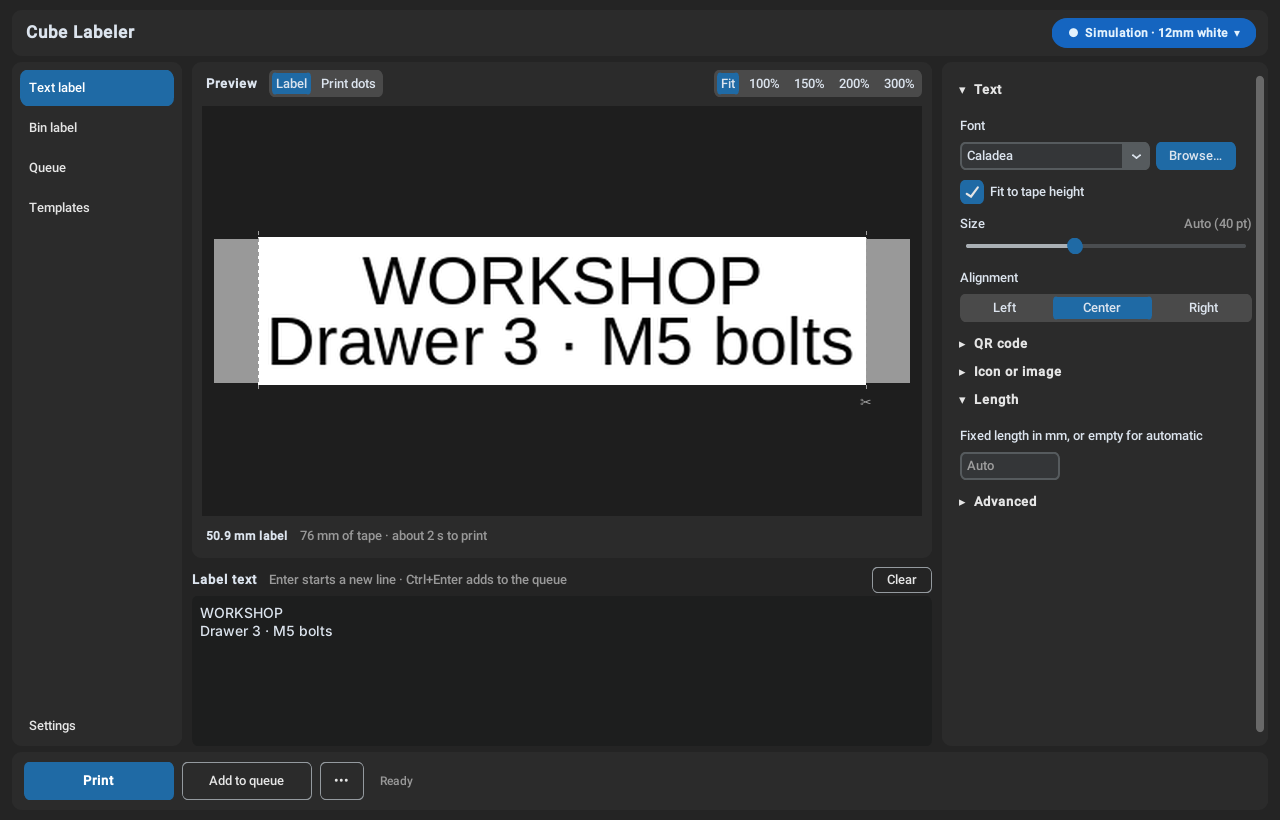
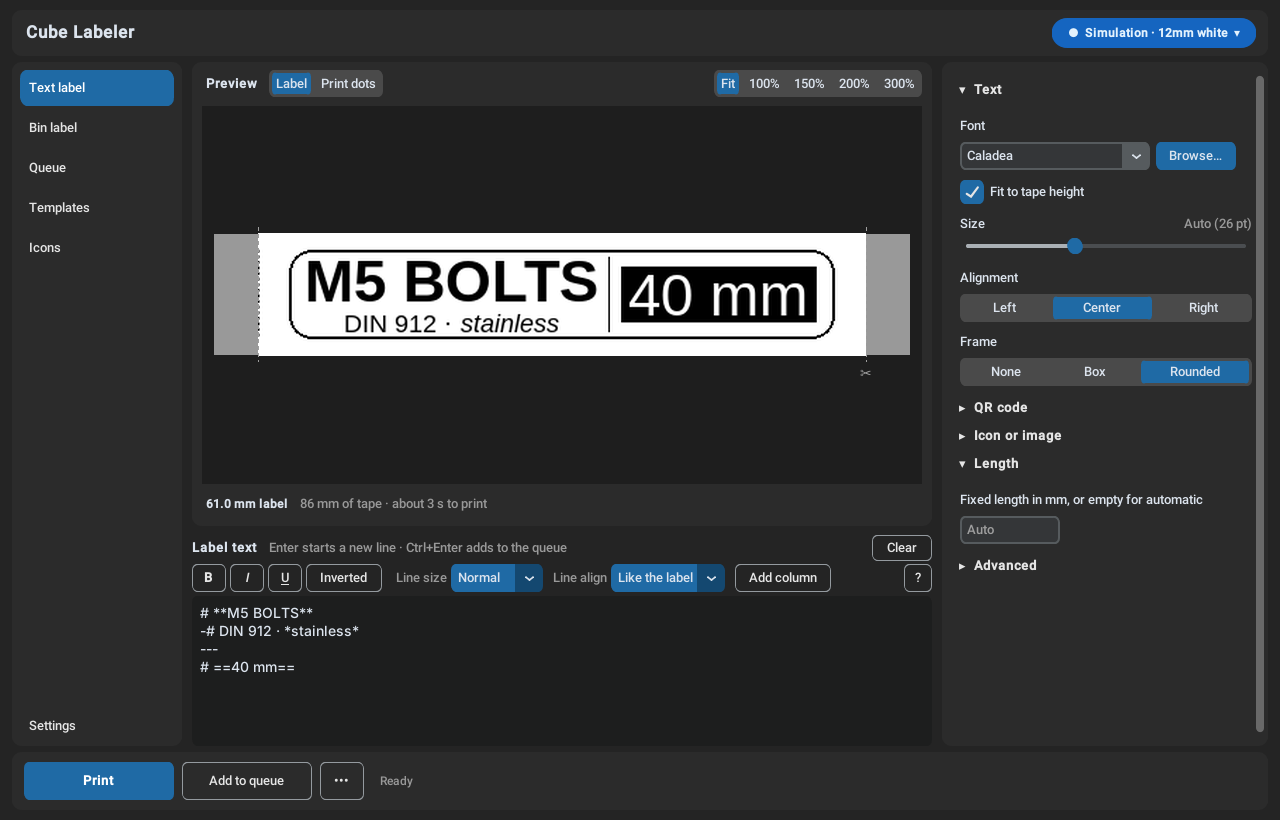
Update the README and retake its screenshots
Point links at the renamed cube-labeler repo, give the web version its
own section with a phone screenshot, mention the part icons on bin
labels, and add a screenshot gallery (bin label, queue, Icons page,
icon editor, templates, settings) taken from the app on current main.

Claude-Session: https://claude.ai/code/session_01VeKy37tgFnjem844qpSELe

diff --git a/README.md b/README.md
@@ -1,22 +1,22 @@
 # Cube Labeler
 
-[![Tests](https://github.com/McTobe/printlabel-ui/actions/workflows/tests.yml/badge.svg)](https://github.com/McTobe/printlabel-ui/actions/workflows/tests.yml)
-[![Latest release](https://img.shields.io/github/v/release/McTobe/printlabel-ui)](https://github.com/McTobe/printlabel-ui/releases/latest)
+[![Tests](https://github.com/McTobe/cube-labeler/actions/workflows/tests.yml/badge.svg)](https://github.com/McTobe/cube-labeler/actions/workflows/tests.yml)
+[![Latest release](https://img.shields.io/github/v/release/McTobe/cube-labeler)](https://github.com/McTobe/cube-labeler/releases/latest)
 ![Platform: Windows](https://img.shields.io/badge/platform-Windows-0078D6)
 ![Python 3.10+](https://img.shields.io/badge/python-3.10%2B-3776AB)
 [![License: MIT](https://img.shields.io/badge/license-MIT-green)](LICENSE)
 
-A desktop app for designing and printing labels on the **Brother P-touch Cube (PT-P300BT)** over Bluetooth. It shows an exact preview of the printed tape, prints several labels as one strip to save tape, and has a dedicated editor for storage bin labels.
+A desktop app for designing and printing labels on the **Brother P-touch Cube (PT-P300BT)** over Bluetooth. It shows an exact preview of the printed tape, prints several labels as one strip to save tape, has a dedicated editor for storage bin labels and comes with a library of 140 printable icons that you can add your own to.
 
-Cube Labeler runs on Windows as a single portable `.exe`, with no Python install needed. It also has a command-line mode for printing from scripts.
+Cube Labeler runs on Windows as a single portable `.exe`, with no Python install needed. It also has a command-line mode for printing from scripts, and a [web version](#web-version-preview) that prints from Chrome on Android and other systems.
 
-![Text label editor with live tape preview](docs/images/text-label.png)
+![Text label editor with styled text, a column divider and a rounded frame](docs/images/text-label.png)
 
 ## Features
 
 - **Live preview.** See the label on a simulated tape cartridge in its real colors, or switch to *Print dots* to see exactly what the print head will print. Label length, tape used and print time are shown as you type.
 - **Less tape waste.** Queue several labels and print them as one continuous strip with cut guides between them. Every label, queued or not, starts with a dotted cut line in place of the printer's own ":" cut mark. Each extra label saves about 25 mm of tape.
-- **Bin labels.** A dedicated editor for fastener and parts bins: size block, name, one, two or four length boxes and a drive icon (Allen, Hex, PH, PZ, Torx, Slot), in English or Swedish.
+- **Bin labels.** A dedicated editor for fastener and parts bins: size block, name, one, two or four length boxes and a drive icon (Allen, Hex, PH, PZ, Torx, Slot) for fasteners, or a part icon (bearing, spring, WAGO, terminal block, JST, fuse, resistor, capacitor, LED, or any icon from the library) for parts. Suggested names come in English or Swedish.
 - **Text, QR codes and images.** Any installed or imported font, auto-fit to the tape height, alignment and outline. Mix sizes per line, use bold, italic, underlined or inverted (white on black) text, align single lines, split the label into columns with a divider, and add a box or rounded frame. Add QR codes (including Wi-Fi guest login codes), icons or your own pictures.
 - **Icon library.** Monochrome icons for fasteners, screw drives, mechanical parts, electronics, wiring, tools, home & kitchen and safety marks, plus your own icons in `~/.printlabel/icons/`. Browse and manage them on the **Icons** page.
 - **Icon editor.** Import or paste any picture and tune how it turns into black and white (drawing, filled silhouette or photo outline, cutoff, line thickness, crop, clean-up) with a live dot-for-dot print preview, then touch it up with a pencil and eraser. Your icons keep their original picture, so you can edit them again later.
@@ -27,7 +27,16 @@ Cube Labeler runs on Windows as a single portable `.exe`, with no Python install
 - **Optional AI icons.** Have Google Gemini, OpenAI or OpenRouter redraw a photo or picture as a printable icon, with ready-made presets (filled silhouette like the built-in icons, bold line drawing, flat symbol, clean up and keep the shape) or your own instructions, then finish it in the icon editor (needs your own API key for the service, chosen under Settings).
 - **Export.** Save any label as a high-resolution PNG.
 
-![Bin label editor for fastener storage](docs/images/bin-label.png)
+## Screenshots
+
+| | |
+|---|---|
+| ![Bin label editor for fastener storage](docs/images/bin-label.png) | ![Three labels in the queue, printed as one strip](docs/images/queue.png) |
+| **Bin label** with size, two lengths and drive icon | **Queue**: three labels print as one strip and save 50 mm of tape |
+| ![Icons page with favourites and icon details](docs/images/icons-page.png) | ![Icon editor turning a picture into a printable icon](docs/images/icon-editor.png) |
+| **Icons** page: browse, search, favourite and manage icons | **Icon editor**: turn any picture into a printable icon |
+| ![Templates page with My templates preview cards](docs/images/templates.png) | ![Settings with the AI service, backups and simulation](docs/images/settings.png) |
+| **Templates**: your own templates as preview cards, plus starting points | **Settings**: AI service and key, backups and simulation |
 
 ## Supported hardware
 
@@ -35,16 +44,27 @@ Cube Labeler runs on Windows as a single portable `.exe`, with no Python install
 |---|---|
 | **Printer** | Brother P-touch Cube **PT-P300BT**, connected over Bluetooth (serial port) |
 | **Tape** | Brother TZe tape, 3.5 mm, 6 mm, 9 mm and 12 mm wide. Bin labels use 12 mm tape. |
-| **Computer** | 64-bit Windows 10 or 11 with Bluetooth |
+| **Computer** | 64-bit Windows 10 or 11 with Bluetooth for the desktop app. The web version needs Chrome or Edge with Bluetooth on Android, Windows, macOS or Linux. |
 
-Other Brother models are not tested. The printing code and the CLI also run on macOS and Linux, but the app is built and tested for Windows.
+Other Brother models are not tested. The printing code and the CLI also run on macOS and Linux, but the desktop app is built and tested for Windows.
 
 ## Installation
 
-1. Download `CubeLabeler.exe` from the [latest release](https://github.com/McTobe/printlabel-ui/releases/latest).
+1. Download `CubeLabeler.exe` from the [latest release](https://github.com/McTobe/cube-labeler/releases/latest).
 2. Put it anywhere you like and double-click it. There is nothing to install.
 
 Windows SmartScreen may warn you the first time because the file is not code-signed. Choose **More info**, then **Run anyway**.
+
+### Web version (preview)
+
+`web/` holds a browser version that runs the same Python label code in the browser and prints over Bluetooth from Chrome or Edge on Android, Windows, macOS and Linux (iPhone and iPad can't, as Safari has no Web Serial). It does text labels with the same text styling, frames and QR codes; bin labels, icons, the queue and templates are still to come.
+
+- **Try it on your PC and phone:** double-click `run_web.bat` (or run `python web/serve.py`). It opens the page and prints the address to open on your phone.
+- **Host it:** GitHub Actions publishes a Docker image (`ghcr.io/mctobe/cube-labeler-web`) that serves the site on port 80, behind a reverse proxy that adds HTTPS.
+
+<img src="docs/images/web.png" alt="The web version in Chrome on a phone, showing a styled label" width="300">
+
+See [web/README.md](web/README.md) for browser setup (Android needs the *Nearby devices* permission for Chrome) and hosting.
 
 ## Connecting the printer
 
@@ -112,8 +132,8 @@ CubeLabeler.exe --virtual "Test" --preview --save-png test.png  # no printer nee
 You need Python 3.10 or newer (releases are built with 3.11).
 
 ```powershell
-git clone https://github.com/McTobe/printlabel-ui.git
-cd printlabel-ui
+git clone https://github.com/McTobe/cube-labeler.git
+cd cube-labeler
 pip install -r requirements.txt -c constraints.txt
 python main.py          # or double-click run.bat
 ```
@@ -124,10 +144,6 @@ To build the portable executable, install PyInstaller and run the build script. 
 pip install pyinstaller -c constraints.txt
 python build.py         # or double-click build.bat
 ```
-
-### Web version (preview)
-
-`web/` holds a browser version that prints over Bluetooth from Chrome on Android, Windows, macOS and Linux. Double-click `run_web.bat` (or run `python web/serve.py`) to start it; it prints the address to open on your phone. To host it, GitHub Actions publishes a Docker image (`ghcr.io/mctobe/cube-labeler-web`) that serves it on port 80 for a reverse proxy that adds HTTPS. See [web/README.md](web/README.md).
 
 Pushing a tag such as `v1.4.0` builds the executable on GitHub Actions and publishes it as a release.
 
@@ -145,13 +161,14 @@ The tests run on Windows and Linux in CI. On machines without tkinter the GUI te
 |---|---|
 | `core/` | Printer protocol and status, serial driver and simulator, label and bin label rendering, fonts, icons, config, CLI |
 | `ui/` | The customtkinter app: main window, preview, editors, printer chip, templates, settings, dialogs |
+| `web/` | The web version: HTML and JavaScript UI, Web Serial printer transport, the Python bridge, build script and Docker setup |
 | `assets/` | App icon, icon library (`assets/icons/catalog.json` lists categories, titles and search words) and template previews |
 | `icons-src/` | SVG drawings of the library icons; `python tools/build_icons.py` renders them to `assets/icons/` (needs `pip install resvg-py`) |
 | `tests/` | Unit tests and headless GUI tests |
 
 ## Contributing
 
-Bug reports and ideas are welcome in [Issues](https://github.com/McTobe/printlabel-ui/issues). For a pull request, keep changes focused, add or update tests where it makes sense, and check that `python -m unittest discover tests` passes.
+Bug reports and ideas are welcome in [Issues](https://github.com/McTobe/cube-labeler/issues). For a pull request, keep changes focused, add or update tests where it makes sense, and check that `python -m unittest discover tests` passes.
 
 ## Credits
 
